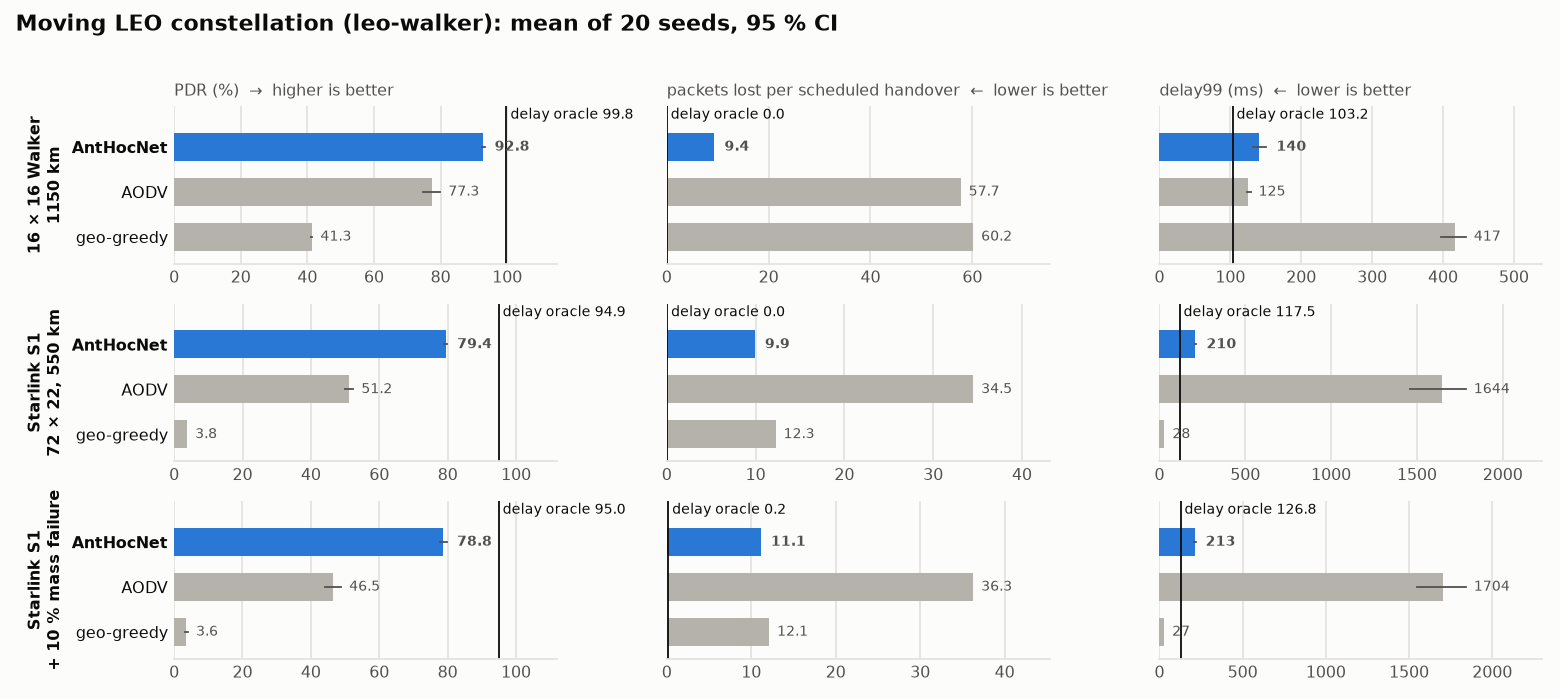
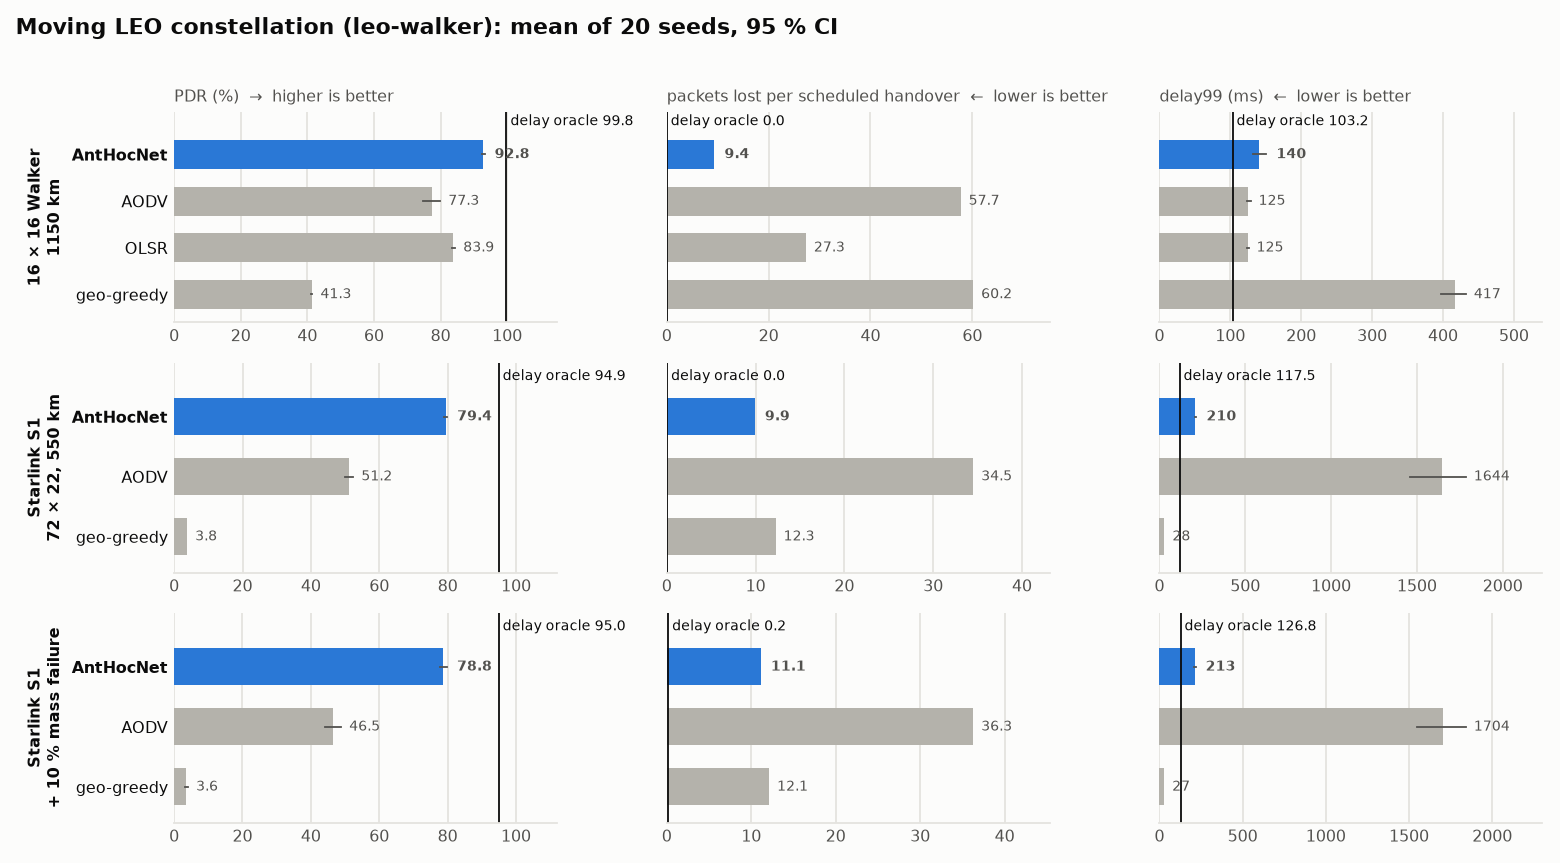
docs(benchmarks): add the walker16 OLSR cell to the moving-constellation page
The walker16 OLSR dispatch (run 37827395914, at 0b5a65ad on
ghcr.io/danieljoppi/ns3:3.48, 20 seeds) finished after 5 h 54 min of CI,
after the leo-walker page was published. This adds it as the seventeenth
cell. OLSR stays off the two S1 cells (1584 nodes; see ADR-0022 criterion 5).

- docs/benchmarks/cells/leo-walker16-olsr.txt: extracted from the job log;
  `scenario_check.py results` returns OK (0 fail, 0 warn).
- leo-walker.md:
  - the provenance table gains an olsr column;
  - "olsr" is added to the arm list;
  - the walker16 tables are the unedited output of
    `python3 ns3/tools/leo-summary.py walker16`;
  - the "OLSR is not in this campaign" paragraph and the matching threat to
    validity now say "walker16 only";
  - a new paragraph reads the result.
- charts/constellation.png: regenerated with ns3/tools/family-charts.py.
  The walker16 row now has an OLSR bar (family-charts already listed olsr in
  LEO_ARMS). No other chart changed.

Result (walker16, AntHocNet - OLSR, paired over 20 seeds):
- PDR: +8.96 pp [+8.36, +9.56], p = 9.6e-05.
- Mean delay: -0.04 ms [-1.34, +1.26], p = 0.94, i.e. a tie.
- NRL: OLSR 306.59 vs AntHocNet 97.63.
- Packets lost per scheduled handover: OLSR 27.31 (AODV 57.70,
  AntHocNet 9.37).
- OLSR refuses 2.91 % of packets at the source, and all 80 of its flows
  (4 flows x 20 seeds) open with a startup outage.

OLSR therefore sits between AODV and AntHocNet on delivery, and the headline
ordering on walker16 is unchanged.
[…]

diff --git a/docs/benchmarks/satellite/leo-walker.md b/docs/benchmarks/satellite/leo-walker.md
@@ -9,19 +9,19 @@ hand over, ISLs fail and recover. The static ISL torus that came first is
 [← Benchmark index](../../benchmarks.md) · [Metrics](../metrics.md) ·
 [Methodology](../methodology.md)
 
-> **Provenance — measured at `0b5a65ad`.** Sixteen `satellite-benchmark.yml`
+> **Provenance — measured at `0b5a65ad`.** Seventeen `satellite-benchmark.yml`
 > dispatches with `harness=leo-walker`, one arm per dispatch, on
 > `ghcr.io/danieljoppi/ns3:3.48` (default profile), 20 seeds each. Every cell
 > carries its run id on its first line and its full `##CONFIG##` line, and
 > every cell passes `scenario_check.py` (the #297 handover-clock and
 > outage-accounting rules) as committed.
 >
-> | cell | anthocnet | aodv | geo-greedy | oracle | oracle-delay |
-> |---|---|---|---|---|---|
-> | `walker16` | [37827387100](https://github.com/danieljoppi/AntHocNet/actions/runs/37827387100) | [37827390737](https://github.com/danieljoppi/AntHocNet/actions/runs/37827390737) | [37827410383](https://github.com/danieljoppi/AntHocNet/actions/runs/37827410383) | [37827401516](https://github.com/danieljoppi/AntHocNet/actions/runs/37827401516) | [37827405771](https://github.com/danieljoppi/AntHocNet/actions/runs/37827405771) |
-> | `starlink1` | [37827426356](https://github.com/danieljoppi/AntHocNet/actions/runs/37827426356) | [37827430778](https://github.com/danieljoppi/AntHocNet/actions/runs/37827430778) | [37827443695](https://github.com/danieljoppi/AntHocNet/actions/runs/37827443695) | [37827433965](https://github.com/danieljoppi/AntHocNet/actions/runs/37827433965) | [37827439616](https://github.com/danieljoppi/AntHocNet/actions/runs/37827439616) |
-> | `starlink1-storm` | [37827449496](https://github.com/danieljoppi/AntHocNet/actions/runs/37827449496) | [37827453949](https://github.com/danieljoppi/AntHocNet/actions/runs/37827453949) | [37827467035](https://github.com/danieljoppi/AntHocNet/actions/runs/37827467035) | [37827458721](https://github.com/danieljoppi/AntHocNet/actions/runs/37827458721) | [37827462965](https://github.com/danieljoppi/AntHocNet/actions/runs/37827462965) |
-> | `hypatia` calibration | | | | | [37827470132](https://github.com/danieljoppi/AntHocNet/actions/runs/37827470132) |
+> | cell | anthocnet | aodv | olsr | geo-greedy | oracle | oracle-delay |
+> |---|---|---|---|---|---|---|
+> | `walker16` | [37827387100](https://github.com/danieljoppi/AntHocNet/actions/runs/37827387100) | [37827390737](https://github.com/danieljoppi/AntHocNet/actions/runs/37827390737) | [37827395914](https://github.com/danieljoppi/AntHocNet/actions/runs/37827395914) | [37827410383](https://github.com/danieljoppi/AntHocNet/actions/runs/37827410383) | [37827401516](https://github.com/danieljoppi/AntHocNet/actions/runs/37827401516) | [37827405771](https://github.com/danieljoppi/AntHocNet/actions/runs/37827405771) |
+> | `starlink1` | [37827426356](https://github.com/danieljoppi/AntHocNet/actions/runs/37827426356) | [37827430778](https://github.com/danieljoppi/AntHocNet/actions/runs/37827430778) |  | [37827443695](https://github.com/danieljoppi/AntHocNet/actions/runs/37827443695) | [37827433965](https://github.com/danieljoppi/AntHocNet/actions/runs/37827433965) | [37827439616](https://github.com/danieljoppi/AntHocNet/actions/runs/37827439616) |
+> | `starlink1-storm` | [37827449496](https://github.com/danieljoppi/AntHocNet/actions/runs/37827449496) | [37827453949](https://github.com/danieljoppi/AntHocNet/actions/runs/37827453949) |  | [37827467035](https://github.com/danieljoppi/AntHocNet/actions/runs/37827467035) | [37827458721](https://github.com/danieljoppi/AntHocNet/actions/runs/37827458721) | [37827462965](https://github.com/danieljoppi/AntHocNet/actions/runs/37827462965) |
+> | `hypatia` calibration | | | | | | [37827470132](https://github.com/danieljoppi/AntHocNet/actions/runs/37827470132) |
 >
 > Cells: `docs/benchmarks/cells/leo-<cell>-<arm>.txt`. **Every leo-walker
 > number measured before `0b5a65ad` is superseded** — see
@@ -46,6 +46,8 @@ Arms:
 
 - **anthocnet** — this repository, defaults.
 - **aodv** — stock ns-3 AODV, the reactive baseline every other suite uses.
+- **olsr** — stock ns-3 OLSR, the proactive link-state baseline. walker16
+  only (see below).
 - **geo-greedy** — an *idealised* greedy geographic comparator: each hop goes
   to the neighbour nearest the destination's serving satellite, with perfect
   global position knowledge and no control traffic. It stands for the
@@ -58,8 +60,9 @@ Arms:
   follows `--delayUpdate`) and every 1 s on S1 to keep CI time bounded. This
   is the latency bound, and the Hypatia-style control.
 
-OLSR is not in this campaign: on 1584 nodes its topology flooding is the
-practical limit of the harness, not of the substrate (ADR-0022, criterion 5).
+OLSR runs on walker16 only. On S1's 1584 nodes its topology flooding is the
+practical limit of the harness, not of the substrate (ADR-0022, criterion 5):
+even the 256-node walker16 cell took 5 h 54 min of CI for 20 seeds.
 
 ## Headline
 
@@ -88,6 +91,7 @@ unedited; rerun it on the committed cells to reproduce every number.
 |---|---|---|---|---|---|---|
 | anthocnet | 20 | 92.84 ± 0.40 | 67.33 ± 1.18 | 140.5 [131.4, 150.9] | 97.63 ± 1.69 | 0.00 |
 | aodv | 20 | 77.34 ± 2.58 | 71.97 ± 0.95 | 125.4 [123.0, 128.6] | 92.84 ± 3.24 | 0.00 |
+| olsr | 20 | 83.88 ± 0.53 | 67.37 ± 0.47 | 124.7 [123.5, 125.8] | 306.59 ± 1.87 | 2.91 |
 | geo-greedy | 20 | 41.35 ± 0.19 | 76.91 ± 2.07 | 417.3 [396.9, 432.2] | 0.00 ± 0.00 | 0.00 |
 | *oracle* (bound) | 20 | 98.35 ± 0.12 | 69.85 ± 0.09 | 123.2 [123.0, 123.5] | 0.00 ± 0.00 | 0.00 |
 | *oracle-delay* (bound) | 20 | 99.79 ± 0.03 | 61.56 ± 0.05 | 103.2 [103.0, 103.6] | 0.00 ± 0.00 | 0.00 |
@@ -97,6 +101,7 @@ AntHocNet − arm, paired per seed (95 % t-CI, Wilcoxon p):
 | vs | n | Δ PDR (pp) | Δ mean delay (ms) |
 |---|---|---|---|
 | aodv | 20 | +15.50 [+12.91, +18.09], p=1.9e-06 | -4.64 [-6.20, -3.07], p=1.3e-05 |
+| olsr | 20 | +8.96 [+8.36, +9.56], p=9.6e-05 | -0.04 [-1.34, +1.26], p=0.94 |
 | geo-greedy | 20 | +51.50 [+51.06, +51.94], p=9.6e-05 | -9.57 [-12.09, -7.05], p=3.8e-06 |
 
 Handover metric family (sums over seeds; outage = ≥ 3 consecutive lost send attempts):
@@ -105,6 +110,7 @@ Handover metric family (sums over seeds; outage = ≥ 3 consecutive lost send at
 |---|---|---|---|---|---|---|---|---|
 | anthocnet | 1 / 3 | 257 / 2062 | 649 / 4329 | 0 / 0 | 10 / 74 | 9.37 | 2.00 | 1.75 |
 | aodv | 2 / 17 | 232 / 12695 | 509 / 7256 | 0 / 0 | 106 / 1223 | 57.70 | 3.25 | 2.25 |
+| olsr | 80 / 2789 | 259 / 6009 | 551 / 5685 | 0 / 0 | 55 / 543 | 27.31 | 5.25 | 2.12 |
 | geo-greedy | 80 / 41274 | 41 / 13236 | 75 / 998 | 0 / 0 | 0 / 0 | 60.16 | 92.00 | 2.12 |
 | oracle | 0 / 0 | 1 / 4 | 252 / 830 | 0 / 0 | 4 / 15 | 0.02 | 1.00 | 0.75 |
 | oracle-delay | 0 / 0 | 0 / 0 | 0 / 0 | 0 / 0 | 0 / 0 | 0.00 | — | — |
@@ -113,13 +119,24 @@ Handover metric family (sums over seeds; outage = ≥ 3 consecutive lost send at
 |---|---|---|
 | anthocnet | 2.07 | 9.29 |
 | aodv | 0.76 | 9.05 |
+| olsr | 0.83 | 8.65 |
 | geo-greedy | 0.84 | 6.33 |
 | oracle | 1.02 | 8.72 |
 | oracle-delay | 1.08 | 8.76 |
 
-AODV's lower delay99 on walker16 (125 vs 140 ms) is survivorship: it delivers
-15.5 pp fewer packets, and the ones it drops are the ones a detour would have
-made late.
+AODV's and OLSR's lower delay99 on walker16 (125 vs 140 ms) is survivorship:
+they deliver 15.5 and 9.0 pp fewer packets, and the ones they drop are the
+ones a detour would have made late.
+
+**OLSR, the proactive baseline, sits between AODV and AntHocNet.** AntHocNet
+delivers +8.96 pp more (20 of 20 seeds, p = 9.6e-05) at the same mean delay
+(−0.04 ms, p = 0.94), with a third of OLSR's routing overhead (NRL 97.6 vs
+306.6). OLSR loses 27.3 packets per scheduled handover — half of AODV's 57.7,
+three times AntHocNet's 9.4 — consistent with its topology view lagging each 15 s
+reconfiguration by its TC interval. It is also the only arm that refuses
+packets at the source (2.91 %: no route yet), and every one of its 80 flows
+(4 × 20 seeds) opens with a startup outage while the first topology floods
+converge.
 
 ### `starlink1`
 
@@ -334,7 +351,8 @@ on this page.
   reachability-under-motion test, not a capacity one. Congestion on ISLs is
   [#206](https://github.com/danieljoppi/AntHocNet/issues/206)'s question.
 - **No OLSR on S1.** Proactive link-state flooding on 1584 nodes exceeds the
-  CI budget; walker16 is where it would be measured.
+  CI budget; it is measured on walker16 only, where 20 seeds already took
+  5 h 54 min.
 
 ## Reproduce
 
